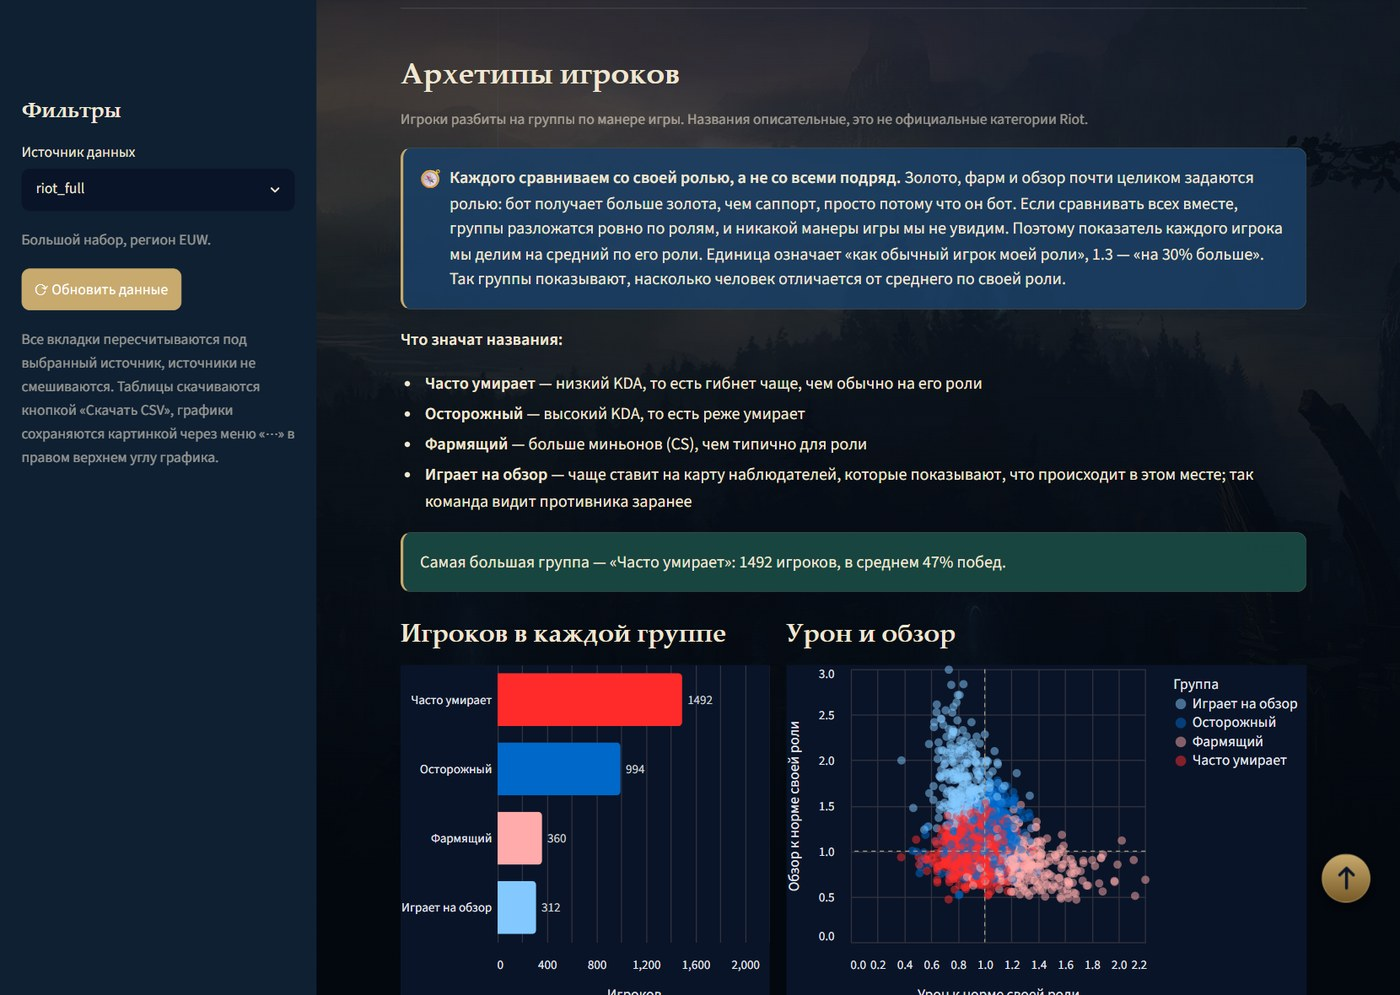
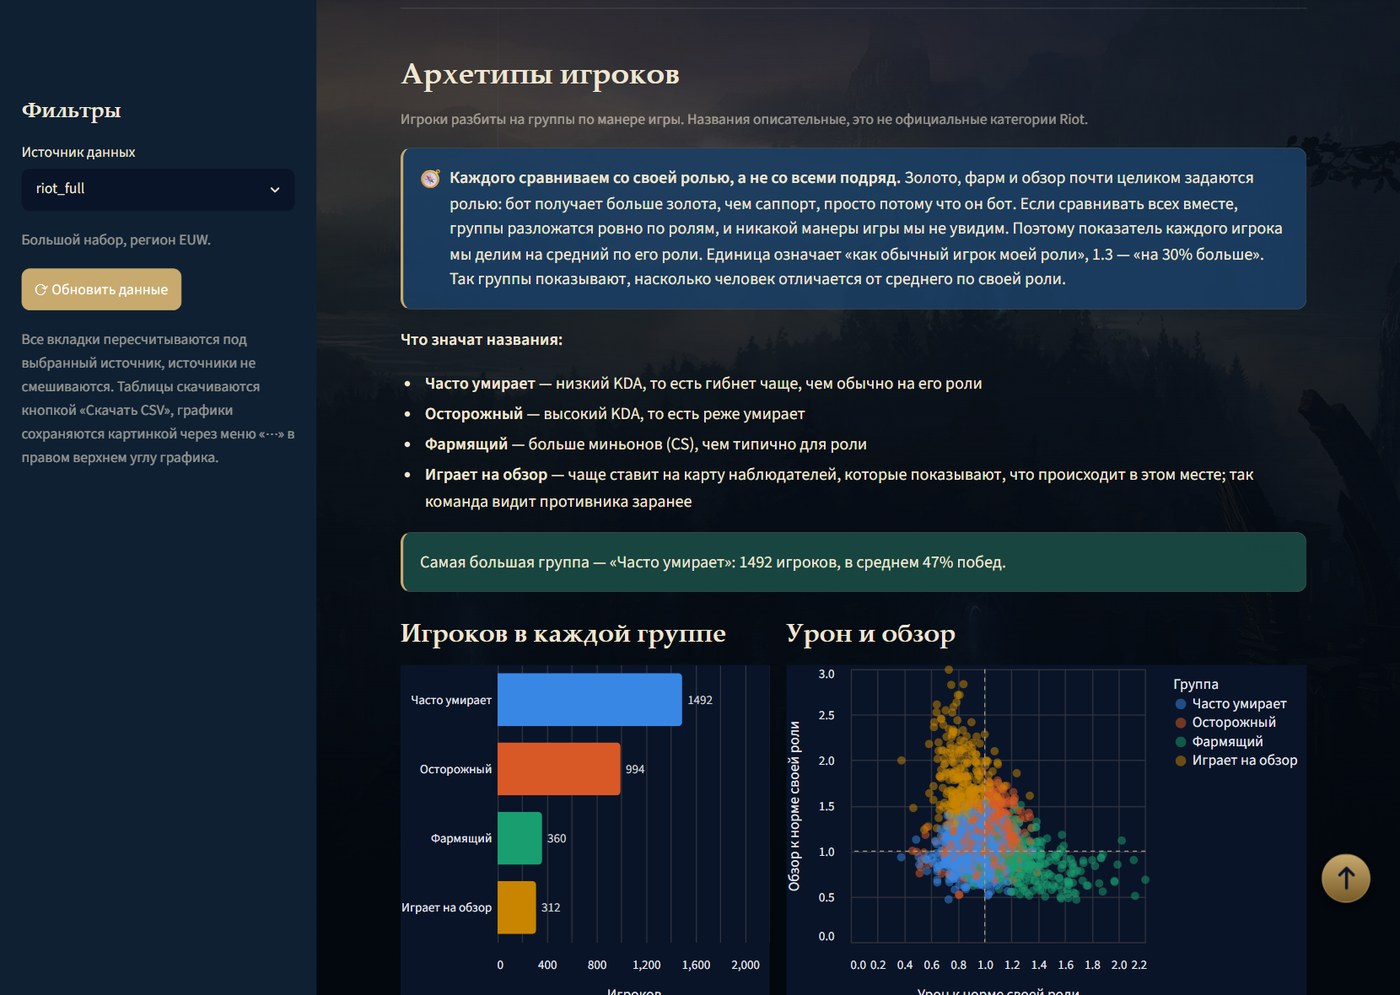
Графики: рейтинг на всю ширину, спокойные цвета групп
Рейтинг чемпионов собран одним графиком с портретами внутри (склейка не растягивалась и оставляла пустую треть). Архетипы раскрашены фиксированной палитрой вместо стандартной: ярко-красный читался как ошибка. Скриншоты в README пересняты.

Changed region(s): [[0.3379, 0.6543, 0.4914, 0.9347], [0.645, 0.6854, 0.8293, 0.9035], [0.8293, 0.6854, 0.9214, 0.7789]]

diff --git a/dashboard/tabs/segments.py b/dashboard/tabs/segments.py
@@ -30,6 +30,17 @@ ARCHETYPE_DESC = {
 }
 
 
+# Цвета групп. Стандартная палитра Altair давала ярко-красный и ярко-синий: красный
+# читается как «ошибка», хотя это просто название группы, и оба цвета спорили с
+# золото-синим оформлением. Порядок фиксированный, набор проверен на различимость,
+# в том числе при дальтонизме.
+GROUP_COLORS = ["#3987e5", "#d95926", "#199e70", "#c98500", "#9085e9", "#d55181"]
+
+
+def _colors(order: list[str]) -> alt.Scale:
+    return alt.Scale(domain=order, range=GROUP_COLORS[:len(order)])
+
+
 def outcome_note(source: str) -> str:
     """Оговорка: показатели, по которым делили группы, сами зависят от исхода матча.
 
@@ -101,7 +112,8 @@ def render(source: str) -> None:
         .reset_index()
         .sort_values("players", ascending=False)
     )
-    st.markdown(_legend(counts["archetype"].tolist()))
+    order = counts["archetype"].tolist()       # порядок групп по размеру = порядок цветов
+    st.markdown(_legend(order))
     top = counts.iloc[0]
     st.success(
         f"Самая большая группа — «{top['archetype']}»: {int(top['players'])} игроков, "
@@ -119,7 +131,10 @@ def render(source: str) -> None:
     t_right.markdown("#### Урон и обзор")
     c_left, c_right = st.columns([1, 1.4])
     with c_left:
-        ybar = alt.Y("archetype:N", sort="-x", title=None,
+        # Порядок задаём полем, а не «-x»: со своей шкалой цвета сортировка по x
+        # переворачивалась, и самая большая группа оказывалась внизу.
+        ybar = alt.Y("archetype:N", title=None,
+                     sort=alt.EncodingSortField(field="players", op="max", order="descending"),
                      axis=alt.Axis(labelPadding=6, domain=False, ticks=False))
         # Запас справа, иначе число у самой длинной полосы уходит за край
         # графика и обрезается («1505» превращалось в «150»). Запас задан в долях
@@ -136,7 +151,7 @@ def render(source: str) -> None:
                         scale=alt.Scale(domain=[0, x_max]),
                         axis=alt.Axis(grid=True, domain=False, labelFlush=True)),
                 y=ybar,
-                color=alt.Color("archetype:N", legend=None),
+                color=alt.Color("archetype:N", legend=None, scale=_colors(order)),
                 tooltip=["archetype", "players", alt.Tooltip("winrate:Q", format=".1%", title="доля побед")],
             )
             .properties(height=H)
@@ -154,7 +169,7 @@ def render(source: str) -> None:
             .encode(
                 x=alt.X("damage_per_min:Q", title="Урон к норме своей роли"),
                 y=alt.Y("vision_per_min:Q", title="Обзор к норме своей роли"),
-                color=alt.Color("archetype:N", title="Группа"),
+                color=alt.Color("archetype:N", title="Группа", sort=order, scale=_colors(order)),
                 tooltip=["name", "archetype", "games",
                          alt.Tooltip("winrate:Q", format=".1%", title="доля побед"),
                          alt.Tooltip("kda:Q", format=".2f")],

diff --git a/dashboard/tabs/strength.py b/dashboard/tabs/strength.py
@@ -344,13 +344,16 @@ def render(source: str) -> None:
     )
     H = 560
     ysort = alt.EncodingSortField(field=order_col, op="max", order="descending")
-    portraits = (
-        alt.Chart(top20).mark_image(width=26, height=26)
-        .encode(y=alt.Y("champion_name:N", sort=ysort, axis=None), url="image:N")
-        .properties(width=30, height=H)
-    )
     y_named = alt.Y("champion_name:N", sort=ysort, title=None,
-                    axis=alt.Axis(labelPadding=6, domain=False, ticks=False))
+                    axis=alt.Axis(labelPadding=34, domain=False, ticks=False))
+    # Портрет рисуется внутри графика (x в пикселях от левого края, отрицательный —
+    # в поле подписей), как на вкладке «Игроки». Склейка из двух графиков не тянулась
+    # под ширину колонки и оставляла пустую треть справа. Ось у слоя та же, что у
+    # столбцов: с axis=None подписи пропадали со всего графика.
+    portraits = (
+        alt.Chart(top20).mark_image(width=22, height=22, align="center")
+        .encode(x=alt.value(-17), y=y_named, url="image:N")
+    )
     bars = (
         alt.Chart(top20).mark_bar(cornerRadiusEnd=3)
         .encode(
@@ -387,7 +390,7 @@ def render(source: str) -> None:
                     text=alt.Text(f"{order_col}:Q", format=".1%"))
         )
 
-    layers = [bars, half]
+    layers = [bars, half, portraits]
     above = top20[top20["dev"] >= 0]
     below = top20[top20["dev"] < 0]
     if not above.empty:
@@ -395,7 +398,7 @@ def render(source: str) -> None:
     if not below.empty:
         layers.append(_labels(below, "right", -6))
     st.altair_chart(
-        alt.hconcat(portraits, alt.layer(*layers), spacing=4).configure_view(strokeWidth=0),
+        alt.layer(*layers).properties(height=H).configure_view(strokeWidth=0),
         width="stretch")
 
     # ---------- эффект усреднения: ради этого три вкладки и слиты в одну ----------
